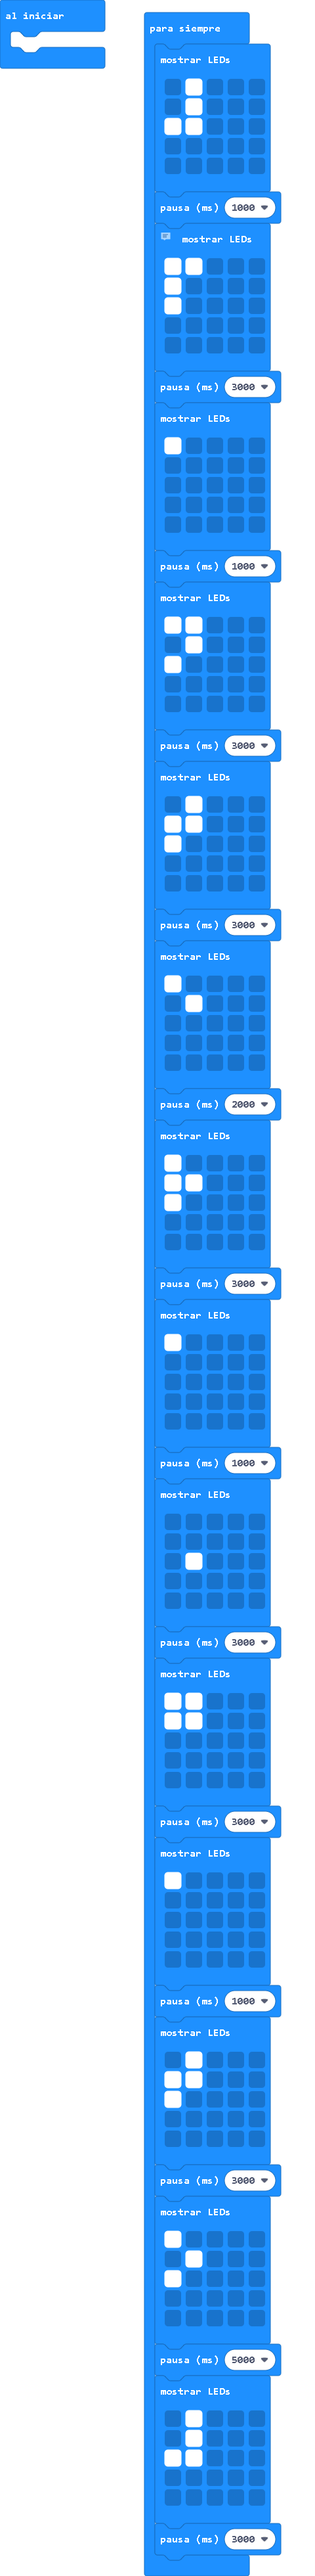
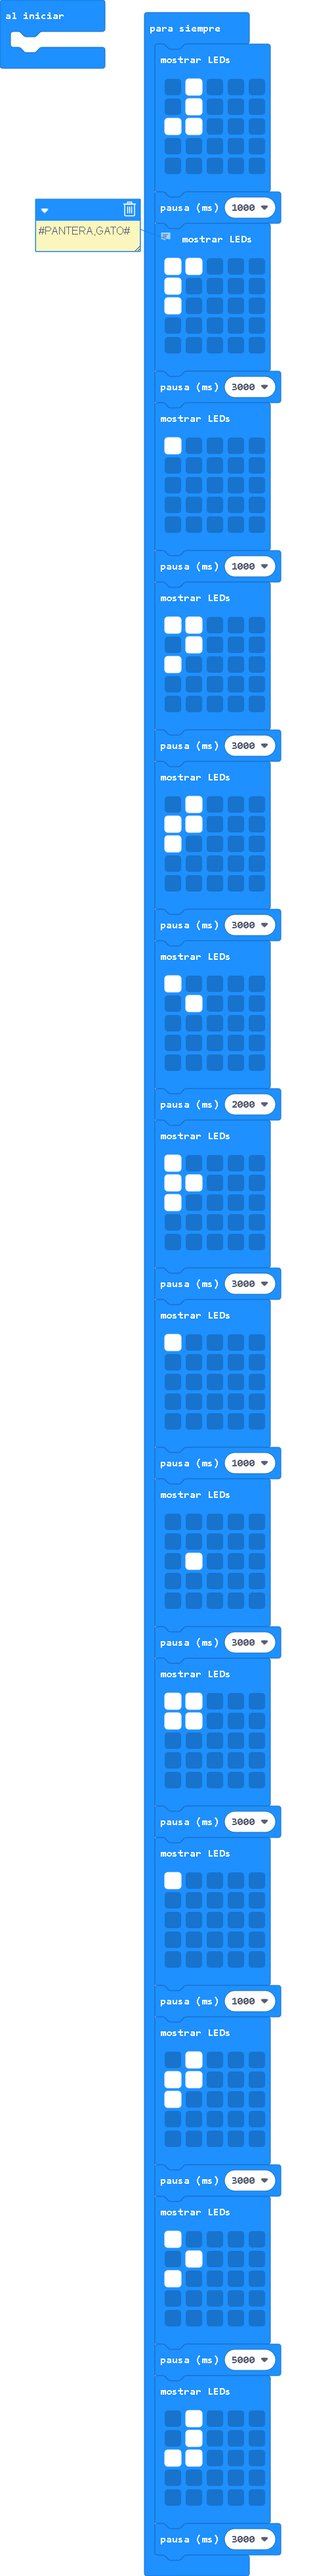
Actualizar main.blocks, main.ts

Changed region(s): [[0.0938, 0.0622, 0.4688, 0.1245]]

diff --git a/main.ts b/main.ts
@@ -7,8 +7,7 @@ basic.forever(function () {
         . . . . .
         `)
     basic.pause(1000)
-    // # PANTERA ,GATO #
-    // 
+    // #PANTERA,GATO#
     basic.showLeds(`
         # # . . .
         # . . . .
